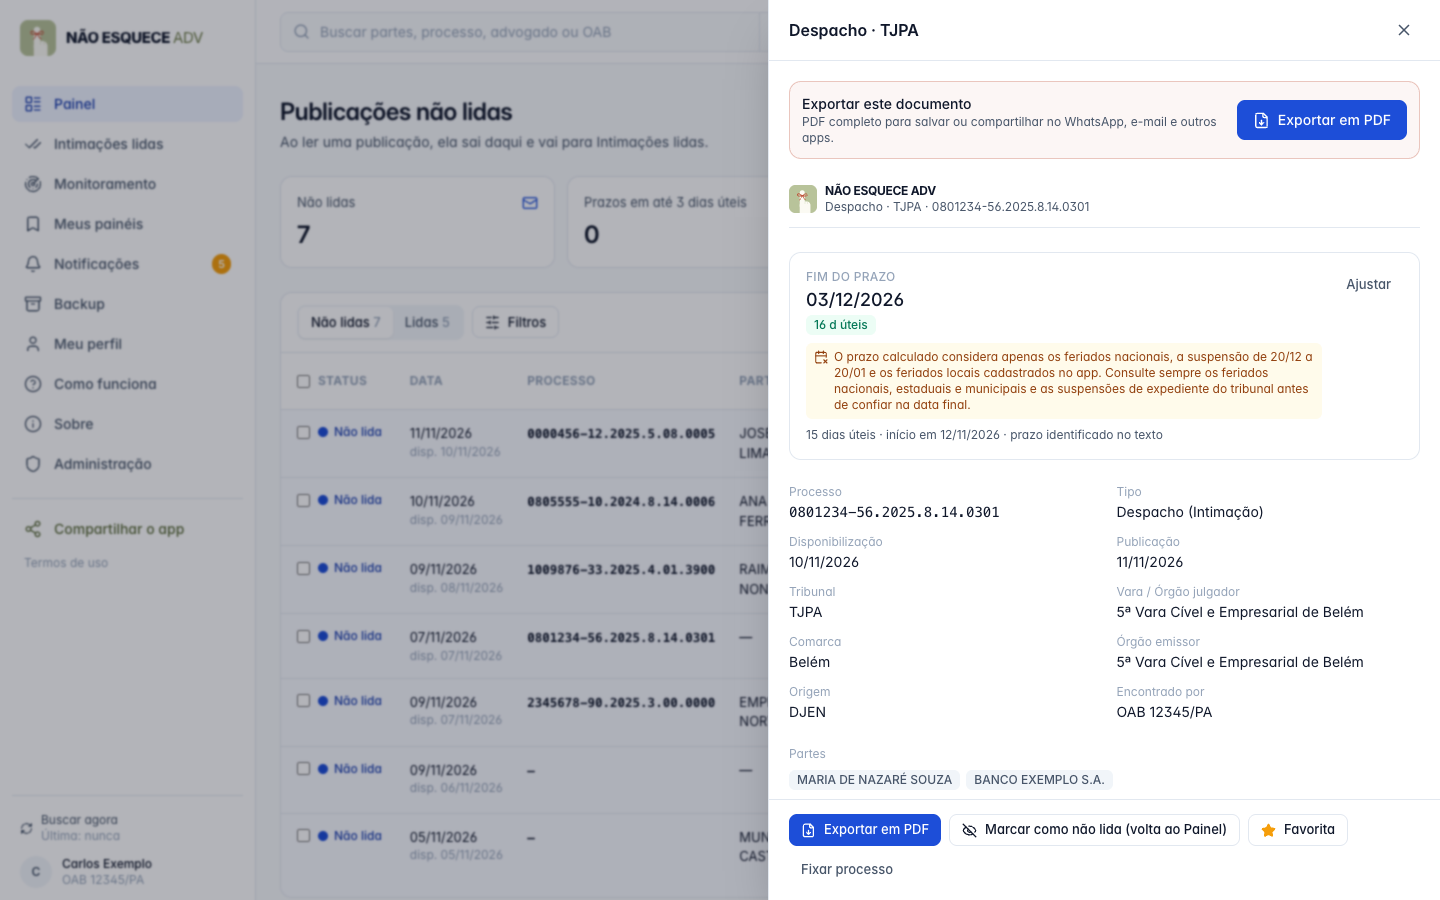
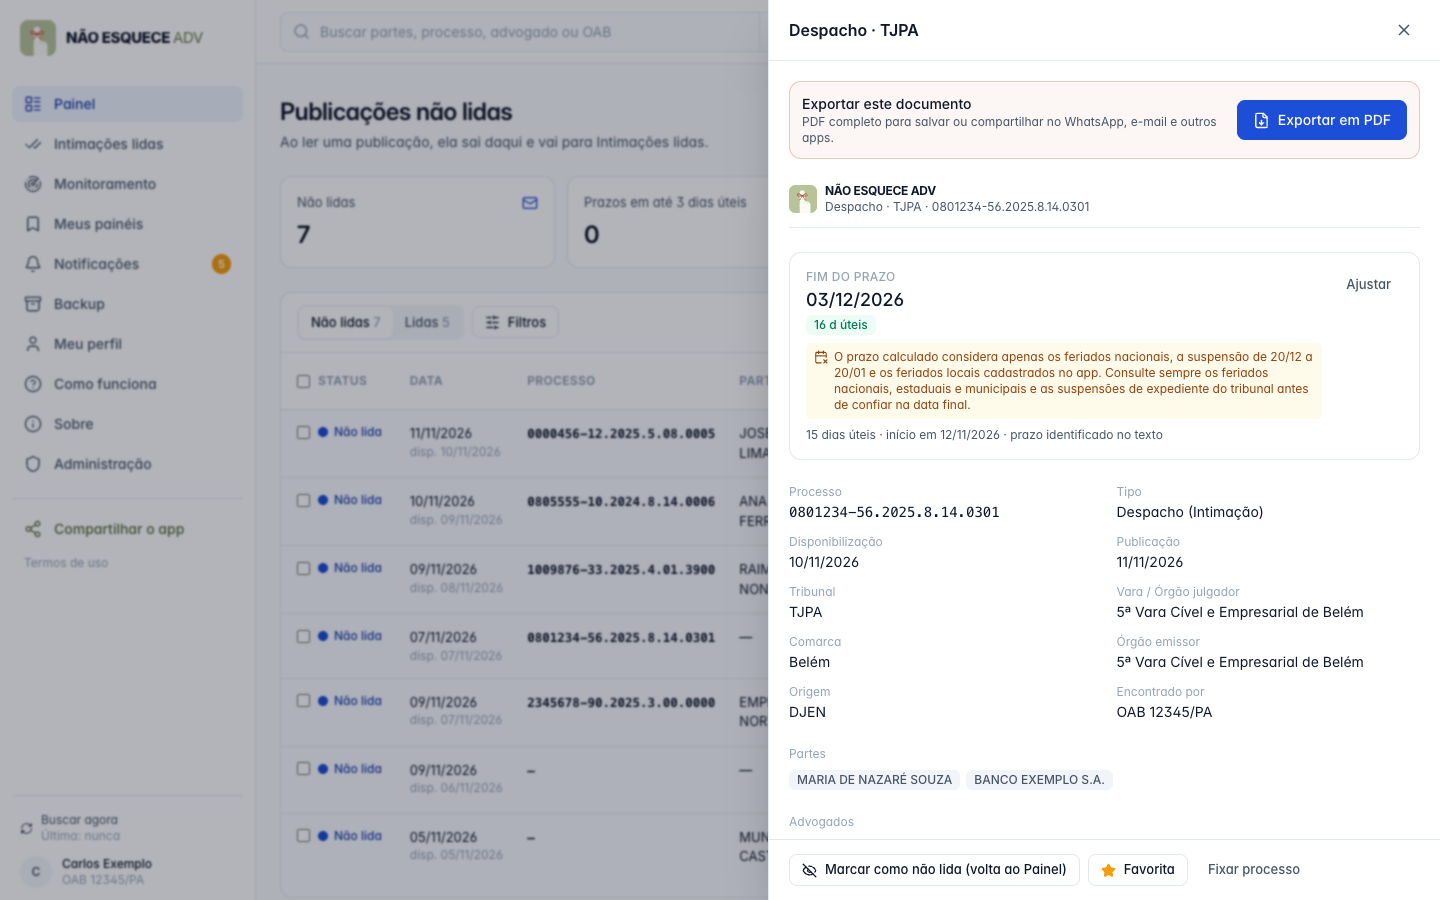
v0.4.4 — Exportar em PDF só no topo da publicação
Pedido 30 registrado.

Changed region(s): [[0.5312, 0.9022, 0.9375, 0.9956], [0.8438, 0.9644, 0.9062, 0.9956]]

diff --git a/apps/web/src/components/publications.tsx b/apps/web/src/components/publications.tsx
@@ -327,7 +327,6 @@ export function PublicationDrawer({ p, onClose, user, onShare }: { p: Publicatio
       title={`${p.type}${p.court ? ` · ${p.court}` : ''}`}
       footer={
         <>
-          <PdfExportButton p={p} />
           <Button size="sm" icon={p.read ? <EyeOff size={15} /> : <Check size={15} />} onClick={() => setRead([p.id], !p.read)}>
             {p.read ? 'Marcar como não lida (volta ao Painel)' : 'Marcar como lida (vai para Lidas)'}
           </Button>

diff --git a/README.md b/README.md
@@ -103,7 +103,7 @@ Para conhecer sem cadastrar nada, clique em **“Ver demonstração”** (dados 
 - **Exportação** para **PDF, Excel e CSV**, por resultado atual, selecionados ou filtros próprios (vara, processo, tribunal, período, lidos/não lidos).
 - **Meus painéis**: consultas e filtros salvos, painéis personalizados com contadores, processos fixados e publicações favoritas.
 - **Intimações lidas**: lista própria para o que já foi lido, com filtros, exportação e “Marcar como não lida”. Botão **“Marcar todas como lidas”** no Painel.
-- **Exportar em PDF** em toda leitura (intimação, citação, sentença, notificação…), no topo e no rodapé da publicação aberta e como ícone em cada linha: gera o documento completo (dados do advogado, processo, data da intimação, da publicação, início e fim do prazo e inteiro teor, em Times New Roman 12 justificado) e oferece **Salvar PDF** ou **Compartilhar** com WhatsApp, e-mail e outros apps. [Ver exemplo](docs/exemplos/pdf-da-intimacao-exemplo.pdf).
+- **Exportar em PDF** em toda leitura (intimação, citação, sentença, notificação…), no topo da publicação aberta e como ícone em cada linha: gera o documento completo (dados do advogado, processo, data da intimação, da publicação, início e fim do prazo e inteiro teor, em Times New Roman 12 justificado) e oferece **Salvar PDF** ou **Compartilhar** com WhatsApp, e-mail e outros apps. [Ver exemplo](docs/exemplos/pdf-da-intimacao-exemplo.pdf).
 - **Compartilhar o app** (menu): indica o NÃO ESQUECE ADV a outros advogados.
 - **Como funciona** e **Termos de uso**: o usuário tem plena responsabilidade pelo gerenciamento de suas intimações; aceite obrigatório na primeira abertura.
 - **Central de notificações**: histórico de avisos de tudo o que chegou de novo. Avisa no app, no computador (push), por e-mail e WhatsApp (envio automático é integração futura).

diff --git a/PEDIDOS/README.md b/PEDIDOS/README.md
@@ -33,6 +33,7 @@ Todo pedido feito ao assistente é salvo aqui, em Markdown, antes de ser executa
 | 27 | 10/11/2026 | Exportação em Times New Roman 12, justificado, entrelinhas 1,5 | [2026-11-10_27_formatacao-exportacao.md](2026-11-10_27_formatacao-exportacao.md) | Concluído (v0.4.2) |
 | 28 | 10/11/2026 | Botão "Exportar em PDF" em todas as leituras | [2026-11-10_28_exportar-pdf-em-todas-as-leituras.md](2026-11-10_28_exportar-pdf-em-todas-as-leituras.md) | Concluído (v0.4.3) |
 | 29 | 10/11/2026 | Somente "Exportar em PDF" (sem Compartilhar/PDF) | [2026-11-10_29_somente-exportar-em-pdf.md](2026-11-10_29_somente-exportar-em-pdf.md) | Concluído (v0.4.3) |
+| 30 | 10/11/2026 | "Exportar em PDF" só no topo (sem rodapé) | [2026-11-10_30_pdf-so-no-topo.md](2026-11-10_30_pdf-so-no-topo.md) | Concluído (v0.4.4) |
 
 ## Entregas
 
@@ -45,3 +46,4 @@ Todo pedido feito ao assistente é salvo aqui, em Markdown, antes de ser executa
 - **v0.4.1 — 10/11/2026**: pedido 24. PDF completo da intimação, pronto para compartilhar.
 - **v0.4.2 — 10/11/2026**: pedidos 25 a 27. Aviso de feriados, PDF com Salvar/Compartilhar, exportação em Times 12 justificado 1,5.
 - **v0.4.3 — 10/11/2026**: pedidos 28 e 29. Somente “Exportar em PDF” em toda leitura (salvar ou compartilhar).
+- **v0.4.4 — 10/11/2026**: pedido 30. “Exportar em PDF” só no topo da publicação aberta.

diff --git a/docs/MANUAL-DO-USUARIO.md b/docs/MANUAL-DO-USUARIO.md
@@ -57,7 +57,7 @@ Ao abrir uma publicação, ela é marcada como lida. No detalhe você pode **aju
 
 ## 3.1 Exportar em PDF e compartilhar
 
-- **Exportar em PDF**: em toda publicação aberta (no topo e no rodapé) e como ícone em cada linha da lista. Gera o documento completo — seus dados (nome, OAB, telefone, e-mail e logomarca), processo, partes, tribunal, vara, comarca, **data da intimação, da publicação, início e fim do prazo** e **inteiro teor** — e oferece **Salvar PDF** ou **Compartilhar** (WhatsApp, e-mail, Mensagens, AirDrop e outros apps). O CPF não vai no PDF. [Exemplo](exemplos/pdf-da-intimacao-exemplo.pdf).
+- **Exportar em PDF**: em toda publicação aberta (no topo) e como ícone em cada linha da lista. Gera o documento completo — seus dados (nome, OAB, telefone, e-mail e logomarca), processo, partes, tribunal, vara, comarca, **data da intimação, da publicação, início e fim do prazo** e **inteiro teor** — e oferece **Salvar PDF** ou **Compartilhar** (WhatsApp, e-mail, Mensagens, AirDrop e outros apps). O CPF não vai no PDF. [Exemplo](exemplos/pdf-da-intimacao-exemplo.pdf).
 - **O app**: no menu, “Compartilhar o app” envia um convite com o link para outros advogados.
 
 ## 4. Exportar

diff --git a/PEDIDOS/2026-11-10_30_pdf-so-no-topo.md b/PEDIDOS/2026-11-10_30_pdf-so-no-topo.md
@@ -1,0 +1,11 @@
+# Pedido 30 — Botão "Exportar em PDF" só no topo
+
+**Data:** 10/11/2026
+
+## Texto integral
+
+> NÃO PRECISA POR O BOTÃO NO RODAPÉ SE TEM NO TOPO
+
+## Como foi atendido
+
+- Removido o "Exportar em PDF" do rodapé da publicação aberta. Fica apenas no topo (e o ícone de PDF em cada linha da lista).

diff --git a/CHANGELOG.md b/CHANGELOG.md
@@ -1,5 +1,12 @@
 # Changelog — NÃO ESQUECE ADV
 
+## [0.4.4] — 10/11/2026
+
+Pedido atendido: 30.
+
+### Alterado
+- “Exportar em PDF” aparece só no topo da publicação aberta (removido do rodapé). O ícone de PDF em cada linha da lista continua.
+
 ## [0.4.3] — 10/11/2026
 
 Pedidos atendidos: 28 e 29.
